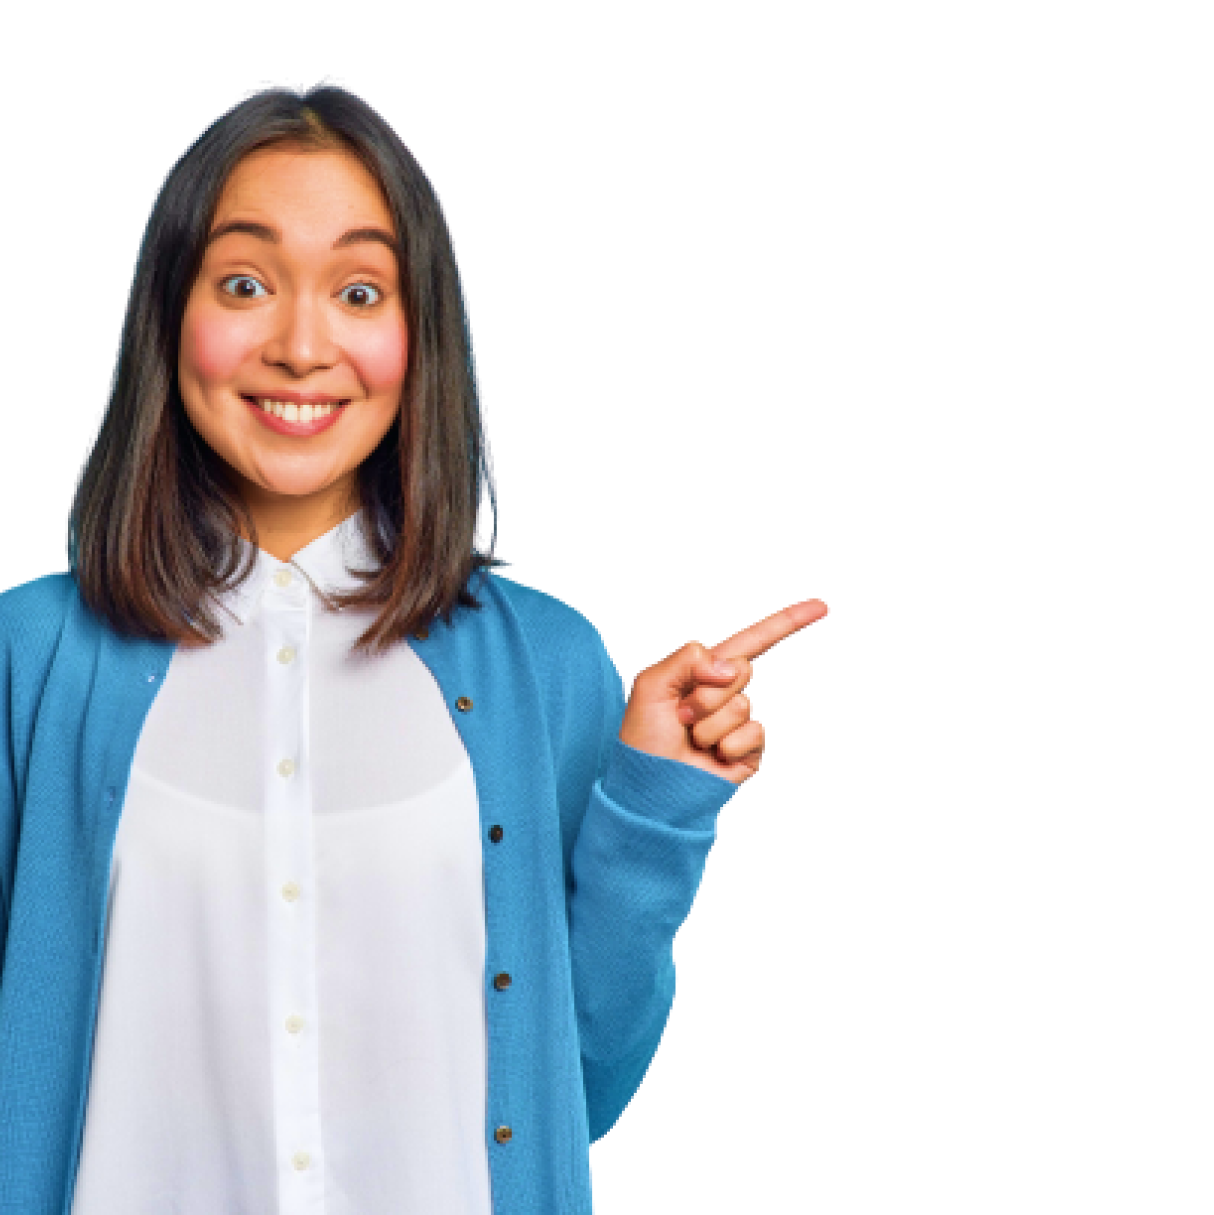
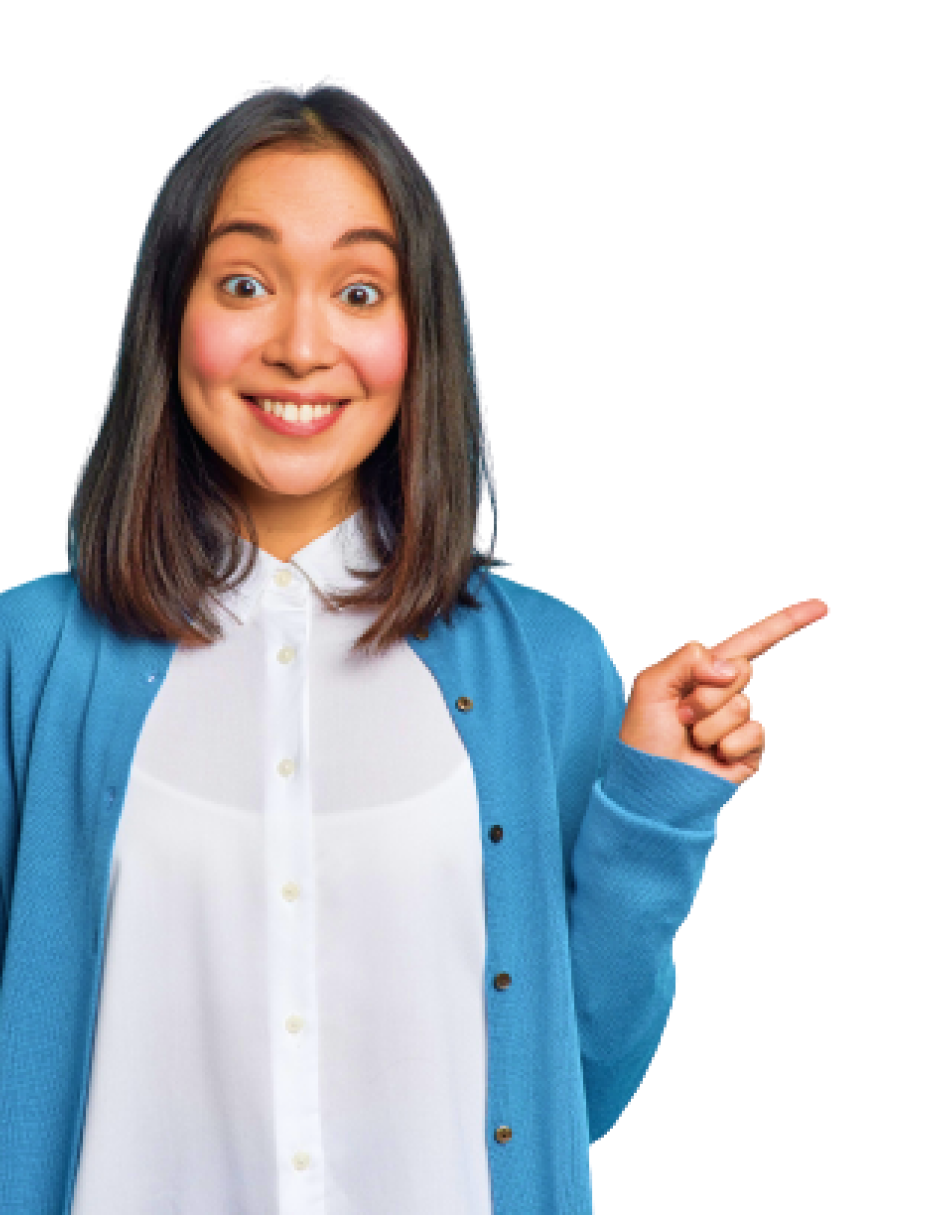
style: Add media queries for mobile responsiveness

diff --git a/styles.css b/styles.css
@@ -7,18 +7,24 @@
 body {
     background-image: linear-gradient(#5423D73D, #1F3DA700);
     width: 100%;
-    height: 100vh;
+    min-height: 100vh;
     font-size: 28px;
     font-family: 'Inter', sans-serif;
 }
 
+.img-container {
+    width: 650px;
+    height: auto;
+
+}
+
 .hero-image {
-    width: 800px;
-    height: 800px;
+    max-width: 100%;
     border: 10px;
 }
 
 .signup-container {
+    padding: 2rem;
     display: flex;
     justify-content: center;
     /* x-axis */
@@ -34,7 +40,6 @@ body {
     padding: 8px;
     width: 100%;
     cursor: pointer;
-    /* margin: 10px; */
     margin-left: 0px;
     background: transparent;
     outline: none;
@@ -50,14 +55,14 @@ body {
     height: 28px;
 }
 
-form{
+form {
     display: flex;
     flex-direction: column;
     gap: 8px;
     /* margin-top: 20px; */
 }
 
-form input{
+form input {
     background: transparent;
     outline: none;
     border-radius: 8px;
@@ -66,24 +71,29 @@ form input{
     padding: 10px;
     font-size: 20px;
 }
-form input::placeholder{
+
+form input::placeholder {
     color: black;
 }
-.Content-Cont{
+
+.Content-Cont {
     display: flex;
     flex-direction: column;
 
 }
-.Content-Cont span{
+
+.Content-Cont span {
     text-align: center;
     font-size: 20px;
     margin: 20px 0;
 }
-.Content-Cont h2{
+
+.Content-Cont h2 {
     font-weight: 700;
     margin-bottom: 10px;
 }
-.form-button{
+
+.form-button {
     margin-top: 20px;
     background: transparent;
     outline: none;
@@ -95,4 +105,36 @@ form input::placeholder{
     background-color: #4C14E2;
     color: whitesmoke;
     ;
+}
+
+@media screen and (max-width: 600px) {
+    .signup-container {
+        flex-direction: column;
+    }
+
+    .img-container {
+        width: 50%;
+    }
+
+    .Content-Cont {
+        margin-top: 3rem;
+    }
+}
+
+@media screen and (max-width: 400px) {
+    .signup-container {
+        padding: 1rem;
+    }
+
+    /* .Content-Cont {
+        font-size: 13px;
+    } */
+    .Content-Cont input,
+    .Content-Cont button {
+        font-size: 16px;
+    }
+
+    .img-container {
+        width: 100%;
+    }
 }

diff --git a/index.html b/index.html
@@ -15,8 +15,10 @@
 
     <!-- sign up page -->
     <div class="signup-container">
-        <img src="./assets//Image used.png" alt="hero Image" class="hero-image">
-
+        <div class="img-container">
+             <img src="./assets//Image used.png" alt="hero Image" class="hero-image">
+        </div>
+       
         <!-- content-container -->
         <div class="Content-Cont">
             <h2>Create An Account</h2>
